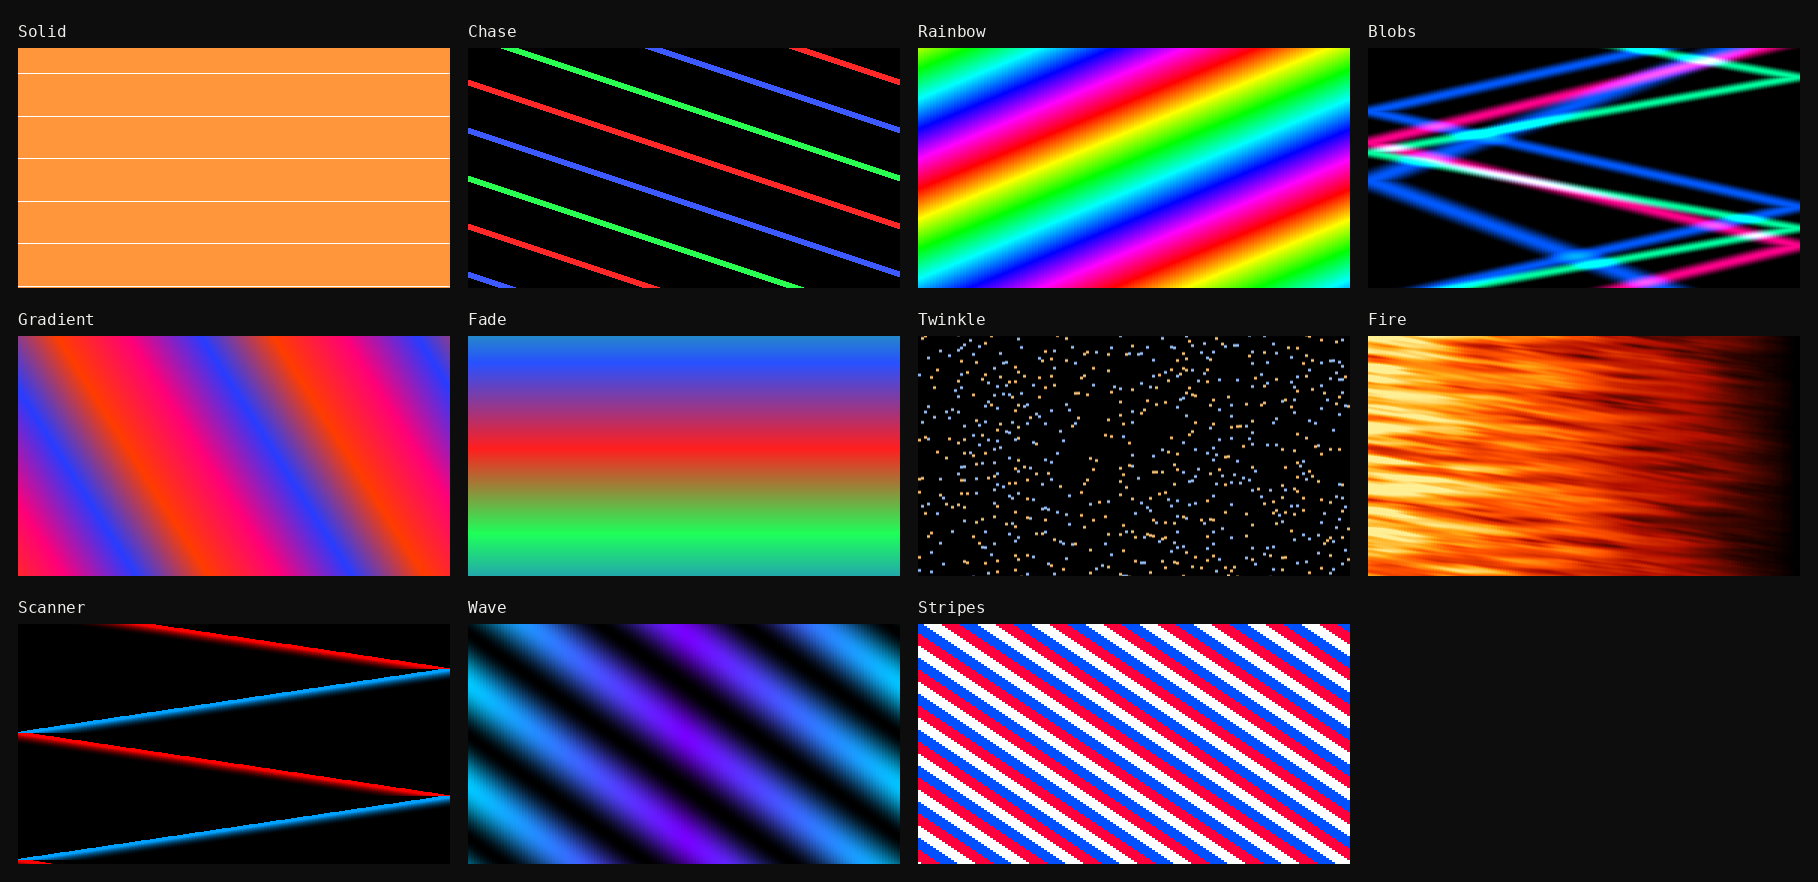
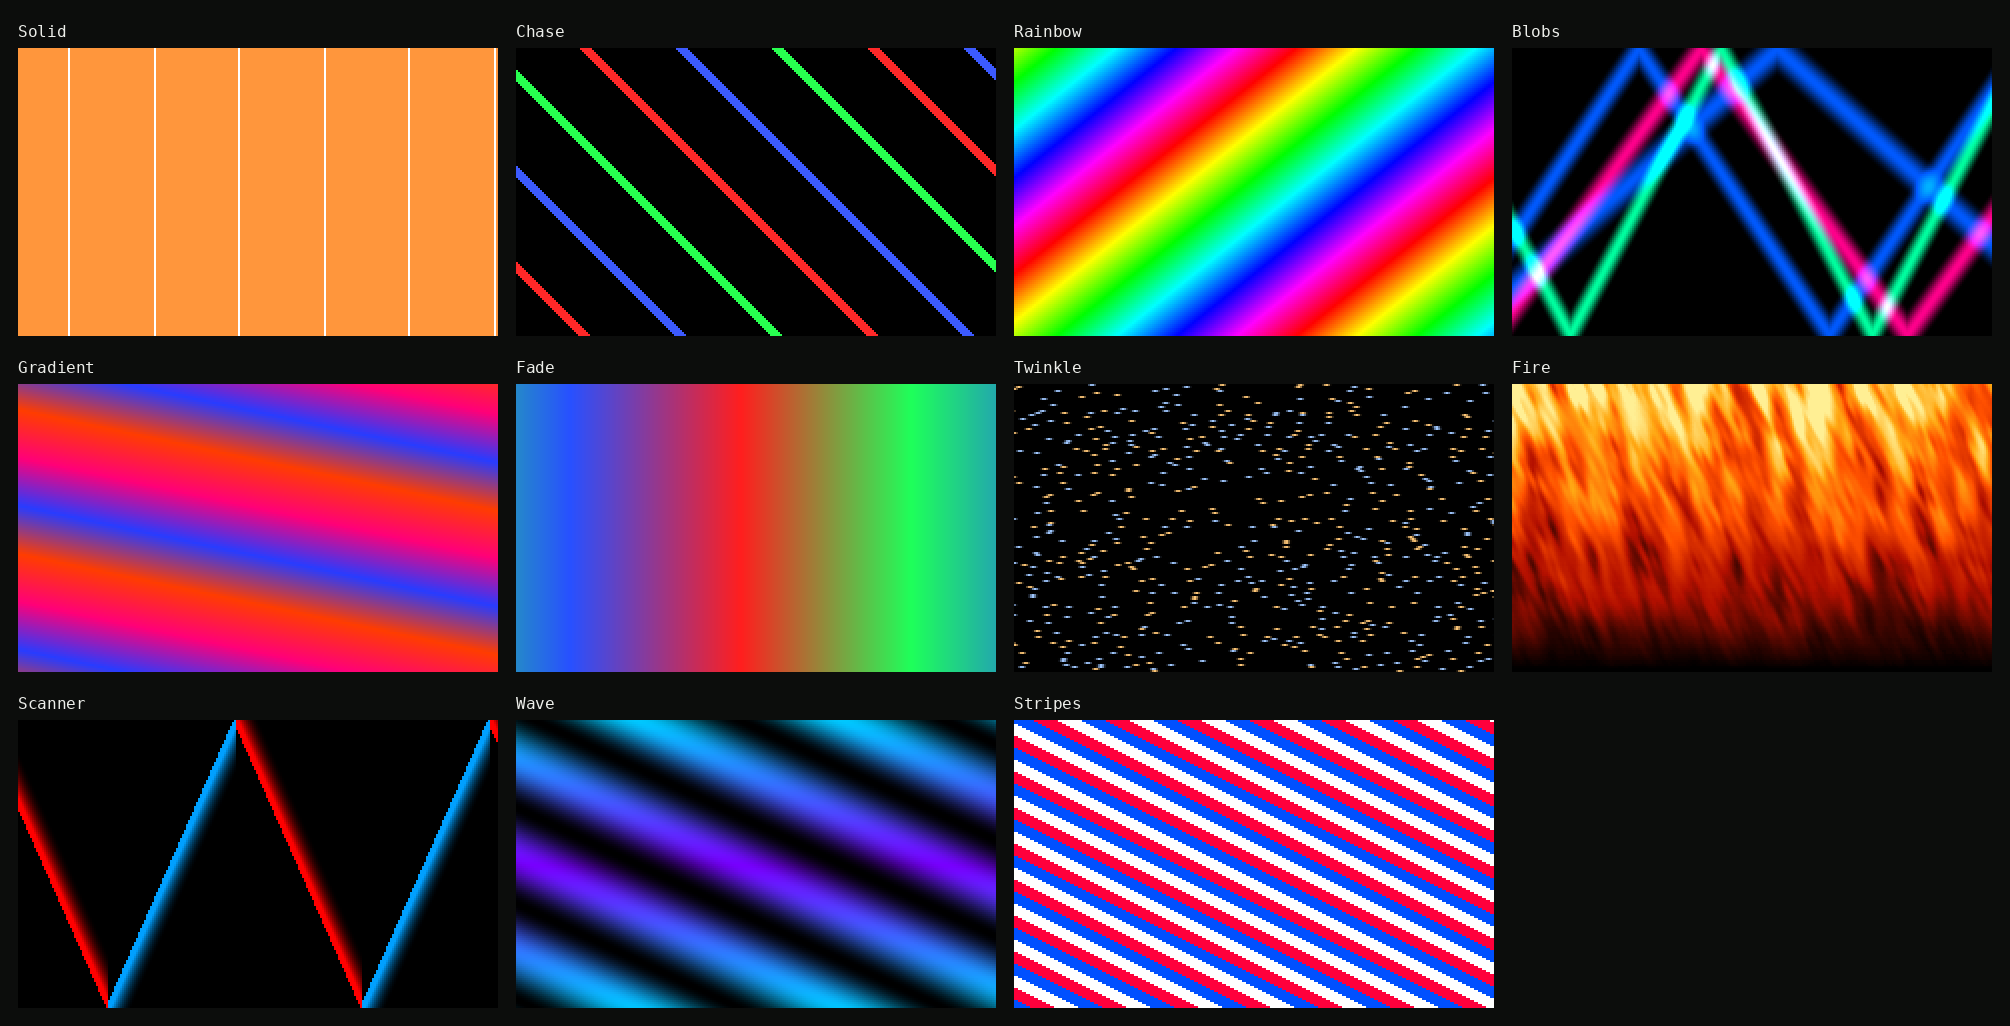
docs(site): effects off the home page; gallery with time on the x axis
- Home page (EN/FR): the effects / show-control section is removed; it lives
  in the technical docs (SHOW_CONTROL.md). Sections renumbered, bands
  alternate again.
- Effects gallery: x = time (6 s going right), y = pixel (0 at the top), so
  each effect's motion reads as a trajectory.
- web-control-fr.png retired (unused); shots.py picks the screens per UI
  language.

Claude-Session: https://claude.ai/code/session_01BcsJyked8PFV1VqGCVN6aG

diff --git a/.github/pages/index-fr.html b/.github/pages/index-fr.html
@@ -207,54 +207,11 @@
         </div>
       </section>
 
-      <!-- Effects + show control -->
-      <section class="band paper" id="effects">
+      <!-- Fonctionnalités -->
+      <section class="band paper" id="features">
         <div class="wrap">
           <div class="sec-head">
             <span class="sec-num">03</span>
-            <h2>Onze effets, rendus par le firmware lui-même.</h2>
-          </div>
-          <p class="sub">
-            Chaque bande ci-dessous montre un effet pendant six secondes sur une ligne de 144 pixels — x le long de la ligne, le temps vers le bas — rendu sur PC par le code même qui tourne dans le boîtier. Les scènes se jouent seules, au démarrage, en failsafe, ou depuis n'importe quelle console via l'univers de pilotage DMX.
-          </p>
-          <div class="media-grid">
-            <figure class="figure">
-              <div class="well contain">
-                <img
-                  src="./img/effects/effects-gallery.png"
-                  alt="Bandes espace-temps des onze effets de scène"
-                  loading="lazy"
-                  onerror="this.closest('figure').remove()"
-                />
-              </div>
-              <figcaption>
-                <b>Fixe, chase, arc-en-ciel, blobs, dégradé, fondu, scintillement, feu, scanner, vague, rayures</b>
-                <p>Vitesse, un paramètre propre à chaque effet et une palette jusqu'à quatre couleurs ; fondus enchaînés entre scènes.</p>
-              </figcaption>
-            </figure>
-            <figure class="figure">
-              <div class="well contain">
-                <img
-                  src="./img/web-control-fr.png"
-                  alt="Éditeur de pilotage DMX de l'interface web pixfrog"
-                  loading="lazy"
-                  onerror="this.closest('figure').remove()"
-                />
-              </div>
-              <figcaption>
-                <b>Piloté depuis la console</b>
-                <p>Composez les canaux DMX du boîtier — master, blackout, strobe, scènes par zone, fondus, séquences — et exportez le profil de fixture (OFL) pour la console.</p>
-              </figcaption>
-            </figure>
-          </div>
-        </div>
-      </section>
-
-      <!-- Fonctionnalités -->
-      <section class="band" id="features">
-        <div class="wrap">
-          <div class="sec-head">
-            <span class="sec-num">04</span>
             <h2>Natif ESP-IDF, taillé pour un timing déterministe.</h2>
           </div>
           <div class="grid">

diff --git a/.github/pages/index-en.html b/.github/pages/index-en.html
@@ -207,54 +207,11 @@
         </div>
       </section>
 
-      <!-- Effects + show control -->
-      <section class="band paper" id="effects">
+      <!-- Features -->
+      <section class="band paper" id="features">
         <div class="wrap">
           <div class="sec-head">
             <span class="sec-num">03</span>
-            <h2>Eleven effects, rendered by the firmware itself.</h2>
-          </div>
-          <p class="sub">
-            Each strip below is one effect over six seconds on a 144-pixel line — x along the line, time going down — rendered on a PC by the same code the box runs. Scenes play standalone, at boot, on failsafe, or from any lighting desk through the DMX control universe.
-          </p>
-          <div class="media-grid">
-            <figure class="figure">
-              <div class="well contain">
-                <img
-                  src="./img/effects/effects-gallery.png"
-                  alt="Space-time strips of the eleven scene effects"
-                  loading="lazy"
-                  onerror="this.closest('figure').remove()"
-                />
-              </div>
-              <figcaption>
-                <b>Solid, chase, rainbow, blobs, gradient, fade, twinkle, fire, scanner, wave, stripes</b>
-                <p>Speed, a per-effect parameter and a palette of up to four colours each; crossfades between scenes.</p>
-              </figcaption>
-            </figure>
-            <figure class="figure">
-              <div class="well contain">
-                <img
-                  src="./img/web-control.png"
-                  alt="pixfrog web UI DMX control editor"
-                  loading="lazy"
-                  onerror="this.closest('figure').remove()"
-                />
-              </div>
-              <figcaption>
-                <b>Drive it from the desk</b>
-                <p>Compose the box's own DMX channels — master, blackout, strobe, scenes per zone, fades, show files — and export the fixture profile (OFL) for the console.</p>
-              </figcaption>
-            </figure>
-          </div>
-        </div>
-      </section>
-
-      <!-- Features -->
-      <section class="band" id="features">
-        <div class="wrap">
-          <div class="sec-head">
-            <span class="sec-num">04</span>
             <h2>Built natively on ESP-IDF, tuned for deterministic timing.</h2>
           </div>
           <div class="grid">

diff --git a/tools/effects_gallery/gallery.cpp b/tools/effects_gallery/gallery.cpp
@@ -1,6 +1,7 @@
 // Effects gallery: renders every scene effect with the firmware's own
-// fill_scene_pattern() as a space-time strip — x = pixel along the line,
-// y = time going down — one binary PPM per effect, for the documentation.
+// fill_scene_pattern() as a space-time strip — x = time going right, y = pixel
+// along the line (pixel 0 at the top) — one binary PPM per effect, for the
+// documentation.
 // Driven by gallery.py (compile, run, convert to PNG, compose the sheet).
 //
 //   gallery <out_dir>   →  <out_dir>/<effect>.ppm
@@ -17,7 +18,7 @@ using namespace pixfrog;
 namespace {
 
 constexpr uint16_t kPixels = 144;  // one 1 m WS2812B strip
-constexpr int kRows        = 240;  // frames, top to bottom
+constexpr int kFrames      = 240;  // columns, left to right
 constexpr int kFrameMs     = 25;   // 40 fps → 6 s of animation
 
 struct Look {
@@ -47,7 +48,7 @@ const Look kLooks[config::kSceneFxCount] = {
 bool write_ppm(const std::string& path, const std::vector<uint8_t>& rgb) {
     FILE* f = std::fopen(path.c_str(), "wb");
     if (!f) return false;
-    std::fprintf(f, "P6\n%u %d\n255\n", kPixels, kRows);
+    std::fprintf(f, "P6\n%d %u\n255\n", kFrames, kPixels);
     std::fwrite(rgb.data(), 1, rgb.size(), f);
     return std::fclose(f) == 0;
 }
@@ -68,13 +69,14 @@ int main(int argc, char** argv) {
             config::set_scene_color(s, k, l.rgb[k][0], l.rgb[k][1], l.rgb[k][2]);
         s.num_colors = l.n;
 
-        std::vector<uint8_t> img;
-        img.reserve(static_cast<size_t>(kPixels) * 3 * kRows);
-        uint8_t row[kPixels * 3];
-        for (int y = 0; y < kRows; ++y) {
-            dmx::logic::fill_scene_pattern(row, sizeof(row), kPixels, 3, s,
-                                           static_cast<uint64_t>(y) * kFrameMs + 10'000);
-            img.insert(img.end(), row, row + sizeof(row));
+        // One frame per column: frame f's pixel p lands at row p, column f.
+        std::vector<uint8_t> img(static_cast<size_t>(kPixels) * kFrames * 3);
+        uint8_t frame[kPixels * 3];
+        for (int f = 0; f < kFrames; ++f) {
+            dmx::logic::fill_scene_pattern(frame, sizeof(frame), kPixels, 3, s,
+                                           static_cast<uint64_t>(f) * kFrameMs + 10'000);
+            for (uint16_t p = 0; p < kPixels; ++p)
+                std::memcpy(&img[(static_cast<size_t>(p) * kFrames + f) * 3], &frame[p * 3], 3);
         }
         std::string name = config::scene_fx_label(l.fx);
         for (char& c : name)

diff --git a/tools/screenshots/shots.py b/tools/screenshots/shots.py
@@ -30,8 +30,9 @@ EMULATORS = {
     "st7789": os.path.join(REPO, "tools", "emulator", "build.st7789", "pixfrog_emu"),
 }
 
-# What the site shows (index-{en,fr}.html); --all takes every screen below.
-SITE_WEB    = {"dashboard", "scenes", "control"}
+# What the site and the docs show, per UI language (index-{en,fr}.html,
+# docs/SHOW_CONTROL.md); --all takes every screen below.
+SITE_WEB    = {"en": {"dashboard", "scenes", "control"}, "fr": {"dashboard", "scenes"}}
 SITE_DEVICE = {("nv3007", "home")}
 
 # Web screens: (file stem, nav target, optional action before the shot).
@@ -99,7 +100,7 @@ def shoot_web(out, langs, every):
                 page.wait_for_selector("[data-screen-title]")
                 time.sleep(8)  # status polls: live numbers and the sparklines filled
                 for stem, nav, action in WEB:
-                    if not every and stem not in SITE_WEB:
+                    if not every and stem not in SITE_WEB[lang]:
                         continue
                     page.locator(f'div[data-nav="{nav}"]').click()
                     if action == "open_scene":

diff --git a/tools/effects_gallery/gallery.py b/tools/effects_gallery/gallery.py
@@ -5,7 +5,7 @@ firmware's own renderer (fill_scene_pattern), for the docs and the site.
     tools/effects_gallery/gallery.py                 # → docs/img/effects/effects-gallery.png
     tools/effects_gallery/gallery.py --strips        # + one PNG per effect
 
-x = pixel along a 144-px line, y = time going down (6 s at 40 fps). Writes
+x = time going right (6 s at 40 fps), y = pixel along a 144-px line. Writes
 effects-gallery.png, the labelled sheet (--strips: one PNG per effect too). Needs a C++17
 compiler and pillow.
 """
@@ -18,7 +18,7 @@ import tempfile
 HERE = os.path.dirname(os.path.abspath(__file__))
 REPO = os.path.dirname(os.path.dirname(HERE))
 COMP = os.path.join(REPO, "components")
-SCALE_X, SCALE_Y = 3, 1  # 144×240 strips → 432×240
+SCALE_X, SCALE_Y = 2, 2  # 240×144 strips → 480×288
 
 
 def build(tmp):

diff --git a/docs/img/README.md b/docs/img/README.md
@@ -27,8 +27,8 @@ docs viewer hide any image that fails to load, so adding/replacing one is safe.
 | `rack-full.jpg`             | JPG  | Complete 1U rack, eight XLR outputs across the front           | Landing page §01 |
 | `web-dashboard[-fr].png`    | PNG  | Web UI dashboard, EN / FR — `tools/screenshots`                | Landing page §02 |
 | `web-scenes[-fr].png`       | PNG  | Web UI scene editor, EN / FR — `tools/screenshots`             | Landing page §02 |
-| `web-control[-fr].png`      | PNG  | Web UI DMX control editor, EN / FR — `tools/screenshots`       | Landing §03, SHOW_CONTROL |
-| `effects/effects-gallery.png` | PNG | The 11 scene effects as space-time strips — `tools/effects_gallery` | Landing §03, SHOW_CONTROL |
+| `web-control.png`           | PNG  | Web UI DMX control editor — `tools/screenshots`                | SHOW_CONTROL |
+| `effects/effects-gallery.png` | PNG | The 11 scene effects, time → x, pixel → y — `tools/effects_gallery` | SHOW_CONTROL |
 | `og-cover.png`              | PNG  | Social / link-preview cover (rendered from `og-cover.svg`)    | `og:image` |
 | `logo.svg`                  | SVG  | Frog mark — nav brand + favicon                               | Site |
 | `frog-anim.svg`             | SVG  | Animated frog logo (self-contained CSS); baked into the splash | About page + `tools/splashgen` |

diff --git a/docs/SHOW_CONTROL.md b/docs/SHOW_CONTROL.md
@@ -31,8 +31,8 @@ so a strip can still be found during a blackout.
 
 ## Scene zones and crossfades
 
-The eleven effects, each over six seconds on a 144-pixel line (x along the
-line, time going down), rendered by the firmware's own `fill_scene_pattern`
+The eleven effects, each over six seconds on a 144-pixel line (time going
+right, pixel 0 at the top), rendered by the firmware's own `fill_scene_pattern`
 (`tools/effects_gallery/gallery.py`):
 
 ![The eleven scene effects as space-time strips](img/effects/effects-gallery.png)
